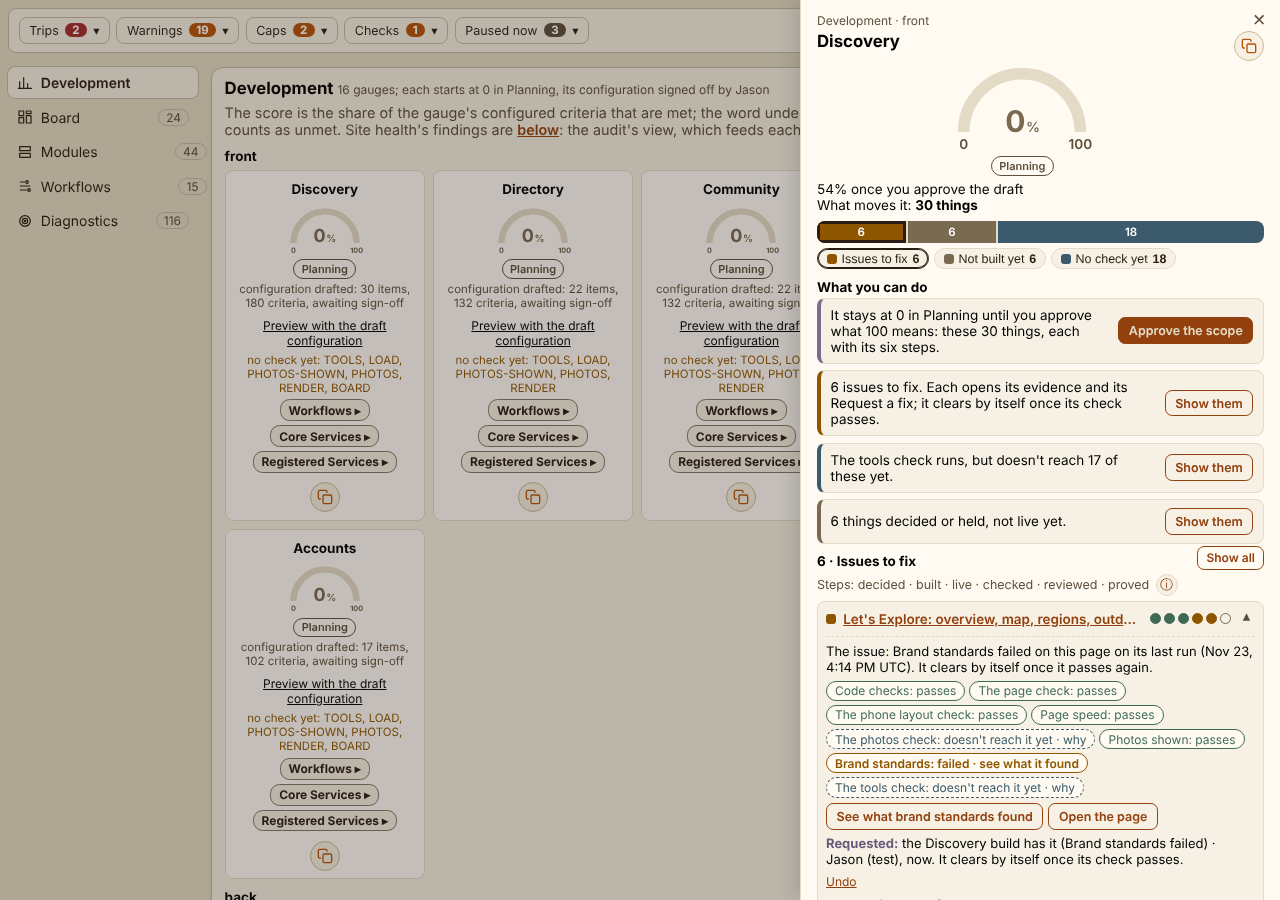
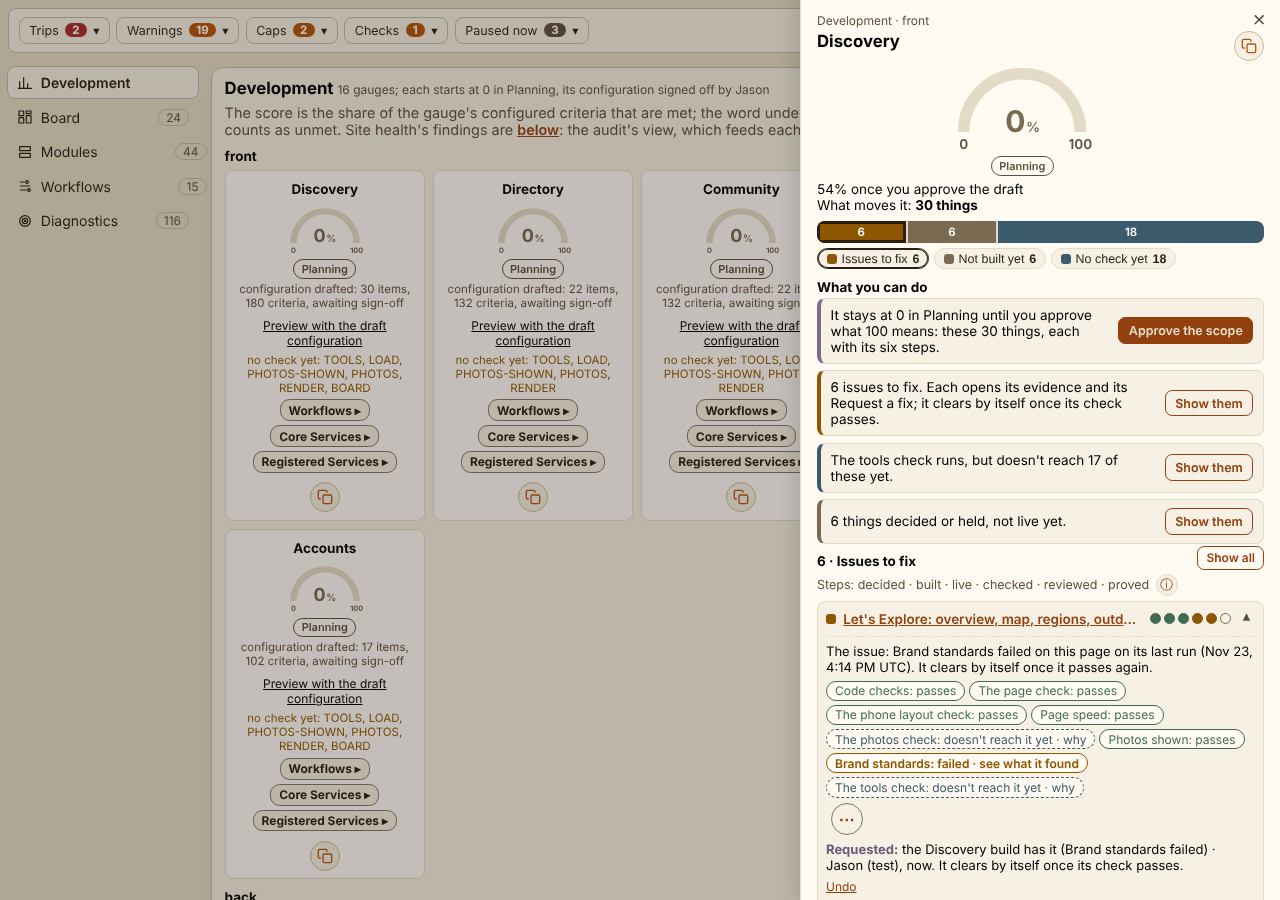
Kit buttons release (in progress): the gauge rows' other moves under ⋯ (the defined ones only), Esc and a click outside close it; tests 72/72
Claude-Session: https://claude.ai/code/session_01CXLi5hL7DpeN9WxT3oMXQK

Changed region(s): [[0.625, 0.9022, 0.9375, 0.9956]]

diff --git a/handoffs/kit-buttons/build/website/js/admin-control.js b/handoffs/kit-buttons/build/website/js/admin-control.js
@@ -452,6 +452,8 @@
     d.innerHTML = '<span>' + html + '</span>' + (id ? '<button type="button" class="cbg-sl" data-cbg="undo" data-id="' + id + '">Undo</button>' : '');
     btn.hidden = true; d._btn = btn; (btn.closest('.cbg-acts') || btn).insertAdjacentElement('afterend', d); return d;
   }
+  function closeMore() { box.querySelectorAll('.cbg-rm [role=menu]').forEach(function (x) { if (!x.hidden) { x.hidden = true; x.classList.remove('up', 'lft'); x.previousElementSibling.setAttribute('aria-expanded', 'false'); } }); }
+  document.addEventListener('click', function (e) { if (!e.target.closest('.cbg-rm')) closeMore(); });   // a click outside closes a row's ⋯
   function cbgEsc(t) { return String(t || '').replace(/[&<>"]/g, function (c) { return { '&': '&amp;', '<': '&lt;', '>': '&gt;', '"': '&quot;' }[c]; }); }
   box.addEventListener('click', function (e) {
     var t = e.target.closest('button,a'); var leg = box.querySelector('.cbg-dleg:not([hidden])');
@@ -464,6 +466,14 @@
     if (t.hasAttribute('data-cbg-more') && g) { g.querySelector('.cbg-items').classList.add('cbg-all'); t.hidden = true; return; }
     if (t.classList.contains('cbg-ex')) { var ib = t.closest('.cbg-it').querySelector('.cbg-ib'); ib.hidden = !ib.hidden; t.setAttribute('aria-expanded', String(!ib.hidden)); return; }
     if (t.hasAttribute('data-cbg-to')) { e.preventDefault(); var c = document.getElementById((t.getAttribute('href') || '').slice(1)); if (c) { c.scrollIntoView({ block: 'center', behavior: 'smooth' }); c.classList.add('cbg-flash'); setTimeout(function () { c.classList.remove('cbg-flash'); }, 1400); var cb = c.querySelector('.cbg-b'); if (cb) cb.focus({ preventScroll: true }); } return; }
+    if (t.hasAttribute('data-cbg-rm')) {   // a row's ⋯: its other moves (one open at a time; ×-less, so Esc and a click outside close it)
+      var l = t.nextElementSibling, on = l.hidden; closeMore(); l.hidden = !on; t.setAttribute('aria-expanded', String(on));
+      if (on && l.getBoundingClientRect().left < 0) l.classList.add('lft');   // no room to its left (a phone): it opens to the right
+      if (on && l.getBoundingClientRect().bottom > window.innerHeight) l.classList.add('up');
+      return;
+    }
+    if (t.closest('.cbg-rm [role=menu]')) closeMore();
+    if (t.hasAttribute('data-cbg-src')) { var d = t.closest('.cbg-ib').querySelector('.cbg-src'); if (d) { d.open = true; d.scrollIntoView({ block: 'nearest' }); } return; }
     if (t.hasAttribute('data-cbg-open') && g) {   // a finding or a check over the panel, with Back; its Request a fix presses the row's
       e.preventDefault(); var sub = g.querySelector('[data-cbg-sub="' + t.getAttribute('data-cbg-open') + '"]'); if (!sub) return;
       sub._from = t.closest('.cbg-it'); var px = sub.querySelector('[data-cbg-proxy]'); if (px) px.hidden = !(sub._from && sub._from.querySelector('[data-cbg=fix]:not([hidden])'));
@@ -486,6 +496,7 @@
   });
   window.addEventListener('keydown', function (e) {   // Esc closes the dots' legend, then a sub view, before the panel (window's capture runs first)
     if (e.key !== 'Escape') return;
+    var m = box.querySelector('.cbg-rm [role=menu]:not([hidden])'); if (m) { e.stopImmediatePropagation(); e.stopPropagation(); closeMore(); m.previousElementSibling.focus(); return; }
     var l = box.querySelector('.cbg-dleg:not([hidden])'); if (l) { e.stopImmediatePropagation(); e.stopPropagation(); l.hidden = true; return; }
     var s2 = box.querySelector('.cbg-sub:not([hidden])'); if (s2) { e.stopImmediatePropagation(); e.stopPropagation(); s2.hidden = true; }
   }, true);

diff --git a/handoffs/kit-buttons/build/app/admin/control-console.php b/handoffs/kit-buttons/build/app/admin/control-console.php
@@ -1158,21 +1158,23 @@ function tv_cbg_row(array $it, string $b, int $j, string $gid, string $title, ar
     }
     if ($chips === '') $chips = '<span class="cbg-chip cbg-c-none cbg-plain">No check applies until it\'s built</span>';
     // its one task, or its line once done
-    $acts = '';
+    $acts = ''; $more = [];
     $what = $b === 'fail' ? ($f !== null ? rtrim((string) $find[$f]['title'], '.') : tv_cbg_name($fails[0] ?? '') . ' failed') : ($b === 'build' ? 'building it' : ($b === 'check' ? 'adding ' . strtolower(tv_cbg_name((string) ($it['no_check'][0] ?? ''))) : ''));
     $fixA = ' data-cbg="fix" data-g="' . $e($gid) . '" data-item="' . $e($name) . '" data-b="' . $e($b) . '" data-what="' . $e($what) . '" data-build="' . $e($title) . '"';
     if ($b === 'fail') {
         $acts .= '<button type="button" class="cbg-b"' . $fixA . '>Request a fix</button>';
-        if ($f !== null) $acts .= '<button type="button" class="cbg-b cbg-o" data-cbg-open="f:' . $e($f) . '">See the evidence</button>';
-        elseif ($fails) $acts .= '<button type="button" class="cbg-b cbg-o" data-cbg-open="c:' . $e($fails[0]) . '">See what ' . $e(strtolower(tv_cbg_name($fails[0]))) . ' found</button>';
+        if ($f !== null) $more[] = '<button type="button" role="menuitem" data-cbg-open="f:' . $e($f) . '">See the evidence</button>';
+        elseif ($fails) $more[] = '<button type="button" role="menuitem" data-cbg-open="c:' . $e($fails[0]) . '">See what ' . $e(strtolower(tv_cbg_name($fails[0]))) . ' found</button>';
     } elseif ($b === 'build') $acts .= '<button type="button" class="cbg-b"' . $fixA . '>Request the build</button>';
     elseif ($b === 'check') {
         $c0 = (string) ($it['no_check'][0] ?? '');
         $acts .= '<button type="button" class="cbg-b"' . $fixA . '>Request the check</button>';
-        $acts .= '<button type="button" class="cbg-b cbg-o" data-cbg-open="' . (str_starts_with((string) ($reg[$c0]['status'] ?? ''), 'built') ? 'r:' : 'c:') . $e($c0) . '">Why it isn\'t checked</button>';
+        $more[] = '<button type="button" role="menuitem" data-cbg-open="' . (str_starts_with((string) ($reg[$c0]['status'] ?? ''), 'built') ? 'r:' : 'c:') . $e($c0) . '">Why it isn\'t checked</button>';
     }
-    if ($route !== '' && str_starts_with($route, '/')) $acts .= '<a class="cbg-b cbg-o" href="' . $e($route) . '" data-peek-frame>Open the page</a>';
-    if ($f !== null) $acts .= '<a class="cbg-b cbg-o" href="#site-health-' . $e($f) . '" data-cb-go="site-health">Its row in Site health</a>';
+    if ($route !== '' && str_starts_with($route, '/')) $more[] = '<a role="menuitem" href="' . $e($route) . '" data-peek-frame>Open the page</a>';
+    if ($f !== null) $more[] = '<a role="menuitem" href="#site-health-' . $e($f) . '" data-cb-go="site-health">Its row in Site health</a>';
+    $more[] = '<button type="button" role="menuitem" data-cbg-src>Where this comes from</button>';
+    $acts .= '<span class="akt-rm cbg-rm"><button type="button" class="akt-rmb" data-cbg-rm aria-haspopup="menu" aria-expanded="false" aria-label="' . $e('More for ' . $name) . '" title="' . $e('More for ' . $name) . '">⋯</button><span class="akt-rml" role="menu" hidden>' . implode('', $more) . '</span></span>';
     $done = '';
     if ($task) {
         if ($task['cleared_at'] !== null) { $done = '<div class="cbg-done"><span><b class="cbg-ok">Cleared:</b> its check passed, ' . tv_cbg_when((string) $task['cleared_at']) . '.</span></div>'; $acts = preg_replace('/<button type="button" class="cbg-b"' . preg_quote($fixA, '/') . '>[^<]*<\/button>/', '', $acts); }
@@ -1525,7 +1527,7 @@ function tv_cb_view_assets(): string
         . '#cb .cb-gh{font-weight:700;font-size:13.5px;text-align:center}#cb .cb-dc .cb-gh{display:block}#cb .cb-gst,#cb .cb-dc>.cb-gst{display:block;text-align:center}#cb .cb-rd{font-size:12.5px;display:flex;flex-wrap:wrap;gap:.25rem;justify-content:center}#cb .cb-rdp{border:1px solid var(--tv-card-edge,#E3DBC6);border-radius:999px;padding:.05rem .45rem;background:#fff}#cb .cb-rdn{color:var(--tv-meta,#6b5d49)}'
         . '#cb .cb-live{font-size:11.5px;color:#3d6b52}#cb .cb-scn{font-size:11px;color:var(--tv-copper,#C85A17);border:1px dotted currentColor;border-radius:.3rem;padding:0 .3rem}#cb .cb-gtr,#cb .cb-gtg,#cb .cb-dl1,#cb .cb-nochk{font-size:11.5px;color:var(--tv-meta,#6b5d49);text-align:center}#cb .cb-nochk{color:var(--cb-hold,var(--tv-hold));overflow-wrap:anywhere;white-space:normal;display:block}#cb .cb-gc>*{min-width:0;max-width:100%}#cb .cb-gc .cb-gh{padding:0 .2rem}'
         . '#cb .cb-gb{display:flex;flex-wrap:wrap;gap:.25rem;justify-content:center}#cb .cb-unm{font-size:11px;color:var(--tv-meta,#6b5d49);font-style:italic;text-align:center}#cb .cb-prev{font-size:12px;text-align:center}#cb .cb-prev summary{cursor:pointer;text-decoration:underline}#cb .cb-prev p{margin:.2rem 0}'
-        . '#cb .cbg-top{margin:.2rem 0 .4rem;font-size:13.5px}#cb .cbg-bar{display:flex;height:22px;border-radius:.5rem;overflow:hidden;margin:.5rem 0 .35rem;gap:2px;background:var(--tv-card-edge,#E3DBC6)}#cb .cbg-seg{border:0;padding:0;cursor:pointer;color:#fff;font:600 11.5px var(--tv-font-ui,system-ui);min-width:6px;transition:filter 150ms ease-out}#cb .cbg-seg[hidden],#cb .cbg-lg[hidden],#cb .cbg-b[hidden]{display:none}#cb .cbg-seg:hover{filter:brightness(1.12)}#cb .cbg-seg[aria-pressed=true]{outline:3px solid var(--tv-ink,#2A1D14);outline-offset:-3px}#cb .cbg-s-fail{background:var(--cb-hold)}#cb .cbg-s-build{background:var(--tv-taupe,#7A6A52)}#cb .cbg-s-check{background:var(--tv-river,#3B5A6B)}#cb .cbg-s-ok{background:#3f6b55}#cb .cbg-legend{display:flex;flex-wrap:wrap;gap:.3rem}#cb .cbg-lg{display:inline-flex;align-items:center;gap:.3rem;border:1px solid var(--tv-card-edge,#E3DBC6);background:var(--tv-card-a,#F6F1E4);border-radius:999px;padding:.15rem .55rem;font-size:12.5px;cursor:pointer;color:var(--tv-ink,#2A1D14)}#cb .cbg-lg[aria-pressed=true]{border-color:var(--tv-ink,#2A1D14);box-shadow:inset 0 0 0 1px var(--tv-ink,#2A1D14)}#cb .cbg-bk{display:inline-block;width:10px;height:10px;border-radius:3px;flex:none}#cb .cbg-bk-fail{background:var(--cb-hold)}#cb .cbg-bk-build{background:var(--tv-taupe,#7A6A52)}#cb .cbg-bk-check{background:var(--tv-river,#3B5A6B)}#cb .cbg-bk-ok{background:#3f6b55}#cb .cbg-bk-sign{background:var(--tv-amethyst,#7D6B8D)}#cb .cbg-acs{display:grid;gap:.4rem}#cb .cbg-ac{display:flex;flex-wrap:wrap;gap:.4rem .6rem;align-items:center;justify-content:space-between;background:var(--tv-card-a,#F6F1E4);border:1px solid var(--tv-card-edge,#E3DBC6);border-left:4px solid var(--tv-taupe,#7A6A52);border-radius:.5rem;padding:.5rem .6rem;transition:box-shadow 150ms ease-out}#cb .cbg-ac p{margin:0;font-size:13.5px;flex:1 1 14rem}#cb .cbg-ac.cbg-flash{box-shadow:0 0 0 2px var(--tv-btn,#92400E)}#cb .cbg-ac-fail{border-left-color:var(--cb-hold)}#cb .cbg-ac-sign{border-left-color:var(--tv-amethyst,#7D6B8D)}#cb .cbg-ac-check{border-left-color:var(--tv-river,#3B5A6B)}#cb .cbg-ac-ok{border-left-color:#3f6b55}#cb .cbg-b{display:inline-flex;align-items:center;gap:.25rem;border:1px solid var(--tv-btn,#92400E);background:var(--tv-btn,#92400E);color:var(--tv-btn-text,#E4DCC5);border-radius:.45rem;padding:.3rem .6rem;font:600 12.5px var(--tv-font-ui,system-ui);cursor:pointer;text-decoration:none;white-space:nowrap}#cb .cbg-b.cbg-o{background:transparent;color:var(--tv-btn,#92400E)}#cb .cbg-b.cbg-sm{padding:.2rem .5rem;font-size:12px}#cb .cbg-b:disabled{opacity:.55;cursor:not-allowed}#cb .cbg-lh{display:flex;align-items:center;justify-content:space-between;gap:.5rem}#cb .cbg-key{display:flex;align-items:center;gap:.4rem;flex-wrap:wrap;margin:.1rem 0 .3rem;font-size:12.5px;color:var(--tv-meta,#6b5d49)}#cb .cbg-info{border:1px solid var(--tv-card-edge,#E3DBC6);background:var(--tv-card-a,#F6F1E4);border-radius:50%;width:22px;height:22px;cursor:pointer;color:var(--tv-btn,#92400E);font-size:13px;line-height:1;padding:0}#cb .cbg-dleg{position:relative;flex-basis:100%;background:var(--tv-card-a,#F6F1E4);border:1px solid var(--tv-card-edge,#E3DBC6);border-radius:.5rem;padding:.4rem 1.8rem .4rem .6rem;color:var(--tv-ink,#2A1D14)}#cb .cbg-dleg[hidden]{display:none}#cb .cbg-dleg p{margin:0 0 .3rem}#cb .cbg-dleg ul{list-style:none;margin:0;padding:0;display:flex;flex-wrap:wrap;gap:.3rem .9rem}#cb .cbg-dleg li{display:flex;align-items:center;gap:.3rem}#cb .cbg-dlx{position:absolute;top:.1rem;right:.2rem;font-size:18px;line-height:1;background:none;border:0;cursor:pointer;color:var(--tv-meta,#6b5d49)}#cb .cbg-items{list-style:none;margin:0;padding:0;display:grid;grid-template-columns:minmax(0,1fr);gap:3px}#cb .cbg-it{background:var(--tv-card-a,#F6F1E4);border:1px solid var(--tv-card-edge,#E3DBC6);border-radius:.5rem;padding:.4rem .5rem}#cb .cbg-it[hidden],#cb .cbg-items:not(.cbg-all) .cbg-it[data-cbg-more-row]{display:none}#cb .cbg-ih{display:flex;align-items:center;gap:.45rem}#cb .cbg-nm{flex:1;min-width:0;color:var(--tv-link,#92400E);text-decoration:underline;font-weight:600;font-size:13.5px;overflow:hidden;text-overflow:ellipsis;white-space:nowrap}#cb .cbg-nm2{flex:1;min-width:0;font-weight:600;font-size:13.5px}#cb .cbg-ex{border:0;background:none;cursor:pointer;font-size:15px;color:var(--tv-meta,#6b5d49);padding:.1rem .3rem;transition:transform 150ms ease-out}#cb .cbg-ex[aria-expanded=true]{transform:rotate(180deg)}#cb .cbg-dots{display:inline-flex;gap:3px;flex:none}#cb .cbg-dword{display:none;font-size:12px;color:var(--tv-meta,#6b5d49)}#cb .cbg-d{width:9px;height:9px;border-radius:50%;display:inline-block;border:1.5px solid var(--tv-taupe,#7A6A52);flex:none}#cb .cbg-d-met{background:#3f6b55;border-color:#3f6b55}#cb .cbg-d-fail{background:var(--cb-hold);border-color:var(--cb-hold)}#cb .cbg-d-nocheck{border-color:var(--tv-river,#3B5A6B);border-style:dashed}#cb .cbg-ib{margin-top:.4rem;border-top:1px dashed var(--tv-card-edge,#E3DBC6);padding-top:.4rem}#cb .cbg-ib[hidden]{display:none}#cb .cbg-st{margin:0 0 .35rem;font-size:13px}#cb .cbg-chips{display:flex;flex-wrap:wrap;gap:.25rem;margin:.2rem 0}#cb .cbg-chip{border-radius:999px;padding:.1rem .5rem;font-size:12px;border:1px solid var(--tv-card-edge,#E3DBC6);background:#FFFBF2;cursor:pointer;text-decoration:none;color:var(--tv-ink,#2A1D14);font-family:inherit}#cb .cbg-c-pass{border-color:#3f6b55;color:#3f6b55}#cb .cbg-c-fail{border-color:var(--cb-hold);color:var(--cb-hold);font-weight:600}#cb .cbg-c-none{border-color:var(--tv-river,#3B5A6B);border-style:dashed;color:var(--tv-river,#3B5A6B)}#cb .cbg-c-part{border-color:var(--tv-river,#3B5A6B);color:var(--tv-river,#3B5A6B)}#cb .cbg-plain{cursor:default}#cb .cbg-sw{font-size:12px;font-weight:600}#cb .cbg-sw-ok{color:#3f6b55}#cb .cbg-sw-fail{color:var(--cb-hold)}#cb .cbg-sw-sign{color:#6B5A7C}#cb .cbg-sw-build{color:var(--tv-taupe,#7A6A52)}#cb .cbg-ic{display:inline-flex;align-items:center;justify-content:center;width:30px;height:30px;border-radius:999px;border:1px solid #CBB98D;background:var(--tv-card-a,#F6F1E4);color:#B45309;flex:none;text-decoration:none}#cb .cbg-ic:hover,#cb .cbg-ic:focus-visible{border-color:var(--tv-btn,#92400E)}#cb .cbg-ic .cbg-svg{width:16px;height:16px}#cb .cbg-late{color:var(--cb-hold)}#cb .cbg-sl{font-size:12px;color:var(--tv-link,#92400E);text-decoration:underline;background:none;border:0;padding:0;cursor:pointer;white-space:nowrap;font-family:inherit}#cb .cbg-done{display:flex;flex-wrap:wrap;gap:.4rem;align-items:center;font-size:13px;margin-top:.35rem}#cb .cbg-done b{color:#6B5A7C}#cb .cbg-done b.cbg-ok{color:#3f6b55}#cb .cbg-acts{display:flex;flex-wrap:wrap;gap:.3rem;margin-top:.35rem}#cb .cbg-acts[hidden]{display:none}#cb .cbg-more{margin-top:.4rem}#cb details.cbg-src,#cb details.cbg-nd{margin-top:.5rem;font-size:12.5px}#cb details.cbg-src summary,#cb details.cbg-nd summary{cursor:pointer;color:var(--tv-meta,#6b5d49)}#cb details.cbg-nd summary{font-size:13.5px;color:var(--tv-ink,#2A1D14)}#cb .cbg-sub{position:absolute;inset:0;background:#FFFBF2;padding:.8rem 1rem 1.4rem;overflow:auto;z-index:2}#cb .cbg-sub[hidden]{display:none}#cb .cbg-shot{display:block;margin:.4rem 0;padding:1.2rem .6rem;text-align:center;background:var(--tv-sec,#EDE6D5);border:1px dashed var(--tv-card-edge,#E3DBC6);border-radius:.5rem;color:var(--tv-link,#92400E)}#cb .cb-sp{position:fixed}#cb .cb-sp .cbg{position:static}@media (max-width:767px){#cb .cbg-nm{white-space:normal}#cb .cbg-ih{flex-wrap:wrap}#cb .cbg-dots{display:none}#cb .cbg-dword{display:inline;order:3;flex-basis:100%;padding-left:calc(10px + .45rem)}#cb .cbg-ih .cbg-ex{margin-left:auto}#cb .cbg-ac .cbg-b{margin-left:auto}}'
+        . '#cb .cbg-top{margin:.2rem 0 .4rem;font-size:13.5px}#cb .cbg-bar{display:flex;height:22px;border-radius:.5rem;overflow:hidden;margin:.5rem 0 .35rem;gap:2px;background:var(--tv-card-edge,#E3DBC6)}#cb .cbg-seg{border:0;padding:0;cursor:pointer;color:#fff;font:600 11.5px var(--tv-font-ui,system-ui);min-width:6px;transition:filter 150ms ease-out}#cb .cbg-seg[hidden],#cb .cbg-lg[hidden],#cb .cbg-b[hidden]{display:none}#cb .cbg-seg:hover{filter:brightness(1.12)}#cb .cbg-seg[aria-pressed=true]{outline:3px solid var(--tv-ink,#2A1D14);outline-offset:-3px}#cb .cbg-s-fail{background:var(--cb-hold)}#cb .cbg-s-build{background:var(--tv-taupe,#7A6A52)}#cb .cbg-s-check{background:var(--tv-river,#3B5A6B)}#cb .cbg-s-ok{background:#3f6b55}#cb .cbg-legend{display:flex;flex-wrap:wrap;gap:.3rem}#cb .cbg-lg{display:inline-flex;align-items:center;gap:.3rem;border:1px solid var(--tv-card-edge,#E3DBC6);background:var(--tv-card-a,#F6F1E4);border-radius:999px;padding:.15rem .55rem;font-size:12.5px;cursor:pointer;color:var(--tv-ink,#2A1D14)}#cb .cbg-lg[aria-pressed=true]{border-color:var(--tv-ink,#2A1D14);box-shadow:inset 0 0 0 1px var(--tv-ink,#2A1D14)}#cb .cbg-bk{display:inline-block;width:10px;height:10px;border-radius:3px;flex:none}#cb .cbg-bk-fail{background:var(--cb-hold)}#cb .cbg-bk-build{background:var(--tv-taupe,#7A6A52)}#cb .cbg-bk-check{background:var(--tv-river,#3B5A6B)}#cb .cbg-bk-ok{background:#3f6b55}#cb .cbg-bk-sign{background:var(--tv-amethyst,#7D6B8D)}#cb .cbg-acs{display:grid;gap:.4rem}#cb .cbg-ac{display:flex;flex-wrap:wrap;gap:.4rem .6rem;align-items:center;justify-content:space-between;background:var(--tv-card-a,#F6F1E4);border:1px solid var(--tv-card-edge,#E3DBC6);border-left:4px solid var(--tv-taupe,#7A6A52);border-radius:.5rem;padding:.5rem .6rem;transition:box-shadow 150ms ease-out}#cb .cbg-ac p{margin:0;font-size:13.5px;flex:1 1 14rem}#cb .cbg-ac.cbg-flash{box-shadow:0 0 0 2px var(--tv-btn,#92400E)}#cb .cbg-ac-fail{border-left-color:var(--cb-hold)}#cb .cbg-ac-sign{border-left-color:var(--tv-amethyst,#7D6B8D)}#cb .cbg-ac-check{border-left-color:var(--tv-river,#3B5A6B)}#cb .cbg-ac-ok{border-left-color:#3f6b55}#cb .cbg-b{display:inline-flex;align-items:center;gap:.25rem;border:1px solid var(--tv-btn,#92400E);background:var(--tv-btn,#92400E);color:var(--tv-btn-text,#E4DCC5);border-radius:.45rem;padding:.3rem .6rem;font:600 12.5px var(--tv-font-ui,system-ui);cursor:pointer;text-decoration:none;white-space:nowrap}#cb .cbg-b.cbg-o{background:transparent;color:var(--tv-btn,#92400E)}#cb .cbg-b.cbg-sm{padding:.2rem .5rem;font-size:12px}#cb .cbg-b:disabled{opacity:.55;cursor:not-allowed}#cb .cbg-lh{display:flex;align-items:center;justify-content:space-between;gap:.5rem}#cb .cbg-key{display:flex;align-items:center;gap:.4rem;flex-wrap:wrap;margin:.1rem 0 .3rem;font-size:12.5px;color:var(--tv-meta,#6b5d49)}#cb .cbg-info{border:1px solid var(--tv-card-edge,#E3DBC6);background:var(--tv-card-a,#F6F1E4);border-radius:50%;width:22px;height:22px;cursor:pointer;color:var(--tv-btn,#92400E);font-size:13px;line-height:1;padding:0}#cb .cbg-dleg{position:relative;flex-basis:100%;background:var(--tv-card-a,#F6F1E4);border:1px solid var(--tv-card-edge,#E3DBC6);border-radius:.5rem;padding:.4rem 1.8rem .4rem .6rem;color:var(--tv-ink,#2A1D14)}#cb .cbg-dleg[hidden]{display:none}#cb .cbg-dleg p{margin:0 0 .3rem}#cb .cbg-dleg ul{list-style:none;margin:0;padding:0;display:flex;flex-wrap:wrap;gap:.3rem .9rem}#cb .cbg-dleg li{display:flex;align-items:center;gap:.3rem}#cb .cbg-dlx{position:absolute;top:.1rem;right:.2rem;font-size:18px;line-height:1;background:none;border:0;cursor:pointer;color:var(--tv-meta,#6b5d49)}#cb .cbg-items{list-style:none;margin:0;padding:0;display:grid;grid-template-columns:minmax(0,1fr);gap:3px}#cb .cbg-it{background:var(--tv-card-a,#F6F1E4);border:1px solid var(--tv-card-edge,#E3DBC6);border-radius:.5rem;padding:.4rem .5rem}#cb .cbg-it[hidden],#cb .cbg-items:not(.cbg-all) .cbg-it[data-cbg-more-row]{display:none}#cb .cbg-ih{display:flex;align-items:center;gap:.45rem}#cb .cbg-nm{flex:1;min-width:0;color:var(--tv-link,#92400E);text-decoration:underline;font-weight:600;font-size:13.5px;overflow:hidden;text-overflow:ellipsis;white-space:nowrap}#cb .cbg-nm2{flex:1;min-width:0;font-weight:600;font-size:13.5px}#cb .cbg-ex{border:0;background:none;cursor:pointer;font-size:15px;color:var(--tv-meta,#6b5d49);padding:.1rem .3rem;transition:transform 150ms ease-out}#cb .cbg-ex[aria-expanded=true]{transform:rotate(180deg)}#cb .cbg-dots{display:inline-flex;gap:3px;flex:none}#cb .cbg-dword{display:none;font-size:12px;color:var(--tv-meta,#6b5d49)}#cb .cbg-d{width:9px;height:9px;border-radius:50%;display:inline-block;border:1.5px solid var(--tv-taupe,#7A6A52);flex:none}#cb .cbg-d-met{background:#3f6b55;border-color:#3f6b55}#cb .cbg-d-fail{background:var(--cb-hold);border-color:var(--cb-hold)}#cb .cbg-d-nocheck{border-color:var(--tv-river,#3B5A6B);border-style:dashed}#cb .cbg-ib{margin-top:.4rem;border-top:1px dashed var(--tv-card-edge,#E3DBC6);padding-top:.4rem}#cb .cbg-ib[hidden]{display:none}#cb .cbg-st{margin:0 0 .35rem;font-size:13px}#cb .cbg-chips{display:flex;flex-wrap:wrap;gap:.25rem;margin:.2rem 0}#cb .cbg-chip{border-radius:999px;padding:.1rem .5rem;font-size:12px;border:1px solid var(--tv-card-edge,#E3DBC6);background:#FFFBF2;cursor:pointer;text-decoration:none;color:var(--tv-ink,#2A1D14);font-family:inherit}#cb .cbg-c-pass{border-color:#3f6b55;color:#3f6b55}#cb .cbg-c-fail{border-color:var(--cb-hold);color:var(--cb-hold);font-weight:600}#cb .cbg-c-none{border-color:var(--tv-river,#3B5A6B);border-style:dashed;color:var(--tv-river,#3B5A6B)}#cb .cbg-c-part{border-color:var(--tv-river,#3B5A6B);color:var(--tv-river,#3B5A6B)}#cb .cbg-plain{cursor:default}#cb .cbg-sw{font-size:12px;font-weight:600}#cb .cbg-sw-ok{color:#3f6b55}#cb .cbg-sw-fail{color:var(--cb-hold)}#cb .cbg-sw-sign{color:#6B5A7C}#cb .cbg-sw-build{color:var(--tv-taupe,#7A6A52)}#cb .cbg-ic{display:inline-flex;align-items:center;justify-content:center;width:30px;height:30px;border-radius:999px;border:1px solid #CBB98D;background:var(--tv-card-a,#F6F1E4);color:#B45309;flex:none;text-decoration:none}#cb .cbg-ic:hover,#cb .cbg-ic:focus-visible{border-color:var(--tv-btn,#92400E)}#cb .cbg-ic .cbg-svg{width:16px;height:16px}#cb .cbg-rm .akt-rml.lft{left:0;right:auto}#cb .cbg-rm .akt-rml a{display:flex;padding:.42rem .55rem;border-radius:.4rem;font:500 .9rem var(--tv-font-ui);color:var(--tv-ink);text-decoration:none}#cb .cbg-rm .akt-rml a:hover,#cb .cbg-rm .akt-rml button:hover{background:var(--tv-card-b,#EFE7D3)}#cb .cbg-late{color:var(--cb-hold)}#cb .cbg-sl{font-size:12px;color:var(--tv-link,#92400E);text-decoration:underline;background:none;border:0;padding:0;cursor:pointer;white-space:nowrap;font-family:inherit}#cb .cbg-done{display:flex;flex-wrap:wrap;gap:.4rem;align-items:center;font-size:13px;margin-top:.35rem}#cb .cbg-done b{color:#6B5A7C}#cb .cbg-done b.cbg-ok{color:#3f6b55}#cb .cbg-acts{display:flex;flex-wrap:wrap;gap:.3rem;margin-top:.35rem}#cb .cbg-acts[hidden]{display:none}#cb .cbg-more{margin-top:.4rem}#cb details.cbg-src,#cb details.cbg-nd{margin-top:.5rem;font-size:12.5px}#cb details.cbg-src summary,#cb details.cbg-nd summary{cursor:pointer;color:var(--tv-meta,#6b5d49)}#cb details.cbg-nd summary{font-size:13.5px;color:var(--tv-ink,#2A1D14)}#cb .cbg-sub{position:absolute;inset:0;background:#FFFBF2;padding:.8rem 1rem 1.4rem;overflow:auto;z-index:2}#cb .cbg-sub[hidden]{display:none}#cb .cbg-shot{display:block;margin:.4rem 0;padding:1.2rem .6rem;text-align:center;background:var(--tv-sec,#EDE6D5);border:1px dashed var(--tv-card-edge,#E3DBC6);border-radius:.5rem;color:var(--tv-link,#92400E)}#cb .cb-sp{position:fixed}#cb .cb-sp .cbg{position:static}@media (max-width:767px){#cb .cbg-nm{white-space:normal}#cb .cbg-ih{flex-wrap:wrap}#cb .cbg-dots{display:none}#cb .cbg-dword{display:inline;order:3;flex-basis:100%;padding-left:calc(10px + .45rem)}#cb .cbg-ih .cbg-ex{margin-left:auto}#cb .cbg-ac .cbg-b{margin-left:auto}}'
         . '#cb .cb-spbg{position:fixed;inset:0;background:rgba(40,30,20,.28);z-index:9990}#cb .cb-sp{position:fixed;top:0;right:0;bottom:0;width:min(30rem,calc(100vw - 6px));overflow:auto;z-index:9991;background:#FFFBF2;border-left:1px solid var(--tv-card-edge,#E3DBC6);box-shadow:-6px 0 18px rgba(0,0,0,.12);padding:.8rem 1rem 1.4rem;box-sizing:border-box}'
         . '#cb .cb-sp[hidden]{display:none}#cb .cb-spx{position:absolute;top:.35rem;right:.5rem;font-size:22px;line-height:1;background:none;border:0;cursor:pointer;color:var(--tv-meta,#6b5d49);padding:.2rem .4rem}#cb .cb-crumb{margin:0 2rem .2rem 0;font-size:12px;color:var(--tv-meta,#6b5d49)}'
         . '#cb .cb-gbig{display:flex;flex-direction:column;align-items:center;gap:.3rem;margin:.3rem 0}#cb .cb-dl{display:grid;grid-template-columns:7rem minmax(0,1fr);gap:.25rem .6rem;font-size:13.5px;margin:.4rem 0}#cb .cb-dl dt{color:var(--tv-meta,#6b5d49)}#cb .cb-dl dd{margin:0;min-width:0;overflow-wrap:anywhere}'
